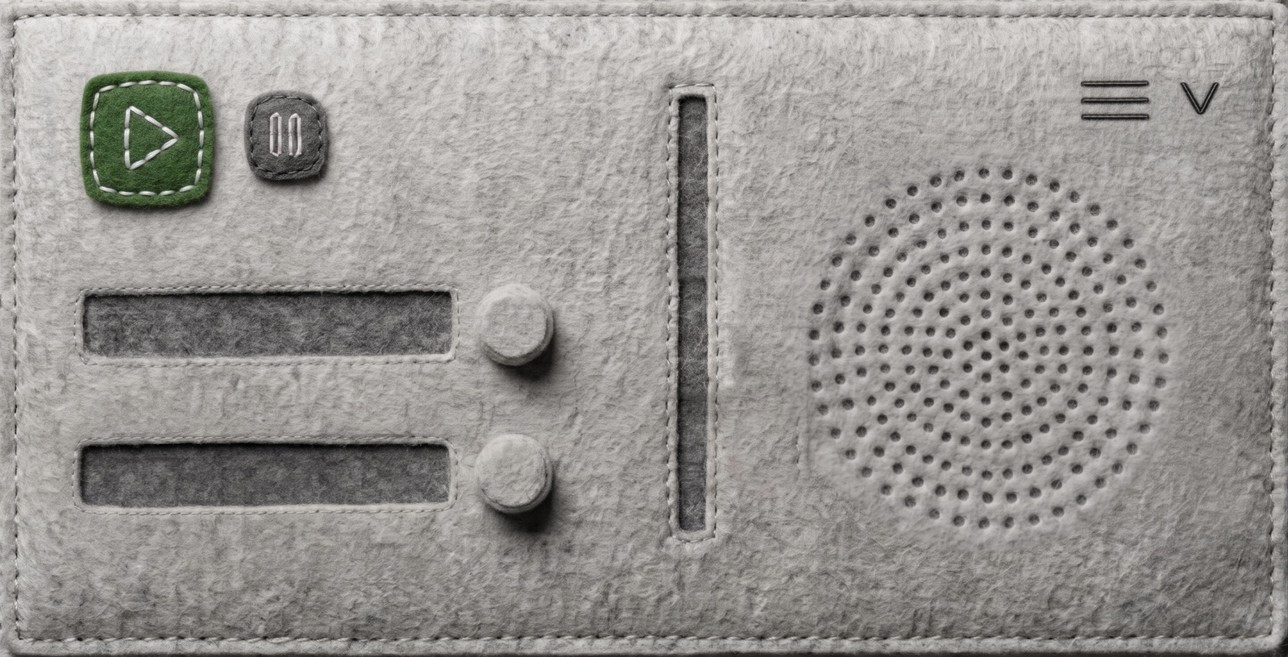
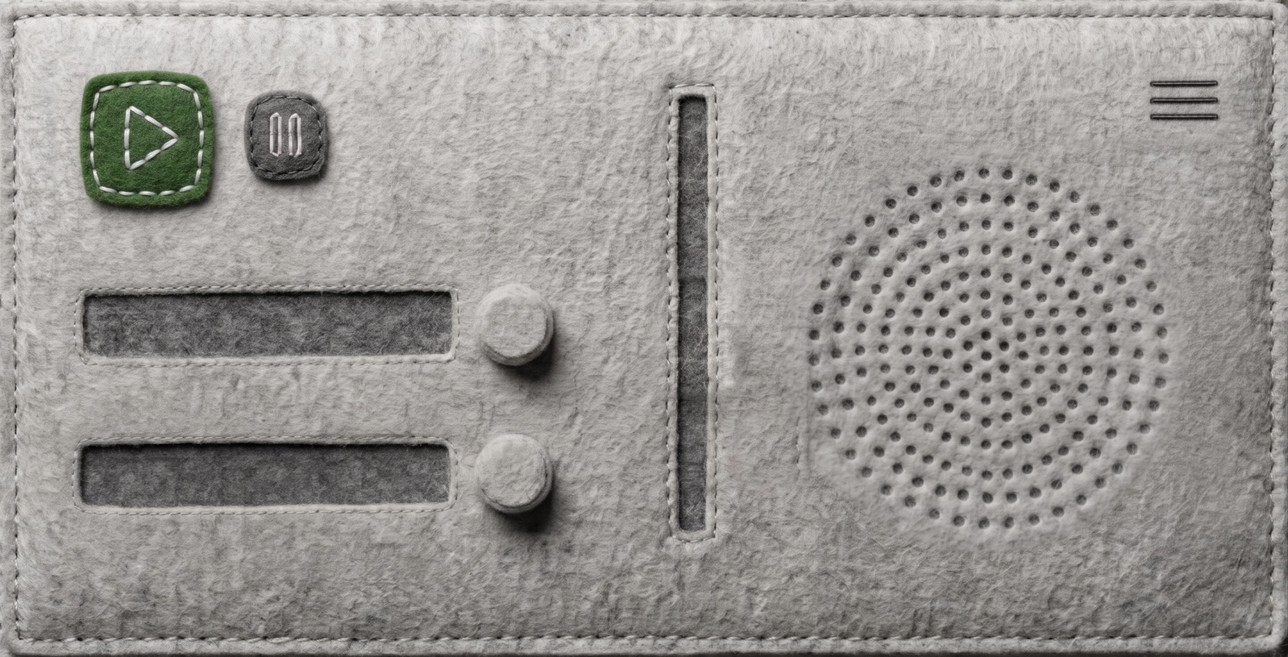
Audio Player: no down arrow (the menu lines take its place), 'Close Audio Player' underneath, Play and Pause names level, Sounds and Music named under their windows, no Volume name, a darker layer behind
Claude-Session: https://claude.ai/code/session_01NDsvQ4w6b4M39K7iEhCswz

Changed region(s): [[0.8385, 0.1218, 0.9627, 0.2131]]

diff --git a/src/components/TapePlayer.js b/src/components/TapePlayer.js
@@ -5,7 +5,7 @@
 //   Sounds (top window) and Music (bottom window): tap a knob to click through the choices; the choice shows
 //     in the window in white, and the line on the knob turns a notch each click (the knob itself stays still)
 //   Volume: the felt slider (drag its knob up and down, or tap the slot)
-//   the three lines at the top: open the Music and Sounds page; the down arrow: close the player
+//   the three lines at the top: open the Music and Sounds page; 'Close Audio Player' underneath closes it
 // (recording your voice is on the reading bar's red button)
 import React, { useEffect, useRef, useState } from 'react';
 import { Animated, Image, PanResponder, Pressable, StyleSheet, Text, View, useWindowDimensions } from 'react-native';
@@ -75,24 +75,24 @@ export default function TapePlayer({ onMenu }) {
   return (
     // the half-dark layer takes every touch, so nothing underneath can be used until the player is closed
     <Animated.View style={[StyleSheet.absoluteFill, styles.scrim, { opacity: fade }]} onStartShouldSetResponder={() => true} accessibilityViewIsModal>
+    <View style={{ alignItems: 'flex-start' }}>
     <View style={[styles.body, { width: PW, height: PH, borderRadius: R * f }]} accessibilityLabel={t('Audio Player')}>
       <View style={[styles.inner, { width: PW, height: PH, borderRadius: R * f }]}>
         <Image source={BODY} style={{ width: PW, height: PH }} resizeMode="stretch" />
         {/* the three lines: the Music and Sounds page; the down arrow: close the player */}
-        <Pressable onPress={onMenu} hitSlop={4} style={at(2120, 120, 210, 160)} accessibilityRole="button" accessibilityLabel={t('Music and Sounds')} />
-        <Pressable onPress={() => setAmbientPlayer(false)} hitSlop={4} style={at(2335, 110, 170, 180)} accessibilityRole="button" accessibilityLabel={t('Close the player')} />
+        <Pressable onPress={onMenu} hitSlop={4} style={at(2250, 110, 240, 180)} accessibilityRole="button" accessibilityLabel={t('Music and Sounds')} />
         {/* Play and Pause, with their names underneath */}
         <Pressable onPress={playAmbient} style={at(161, 142, 264, 270)} accessibilityRole="button" accessibilityLabel={t('Play')} />
         <Pressable onPress={pauseAmbient} style={at(490, 187, 161, 161)} accessibilityRole="button" accessibilityLabel={t('Pause')} />
-        {[[t('Play'), 293, 432], [t('Pause'), 570, 370]].map(([l, cx, top]) => (
+        {[[t('Play'), 293, 432], [t('Pause'), 570, 432]].map(([l, cx, top]) => (
           <Text key={cx} numberOfLines={1} style={[styles.label, label, { position: 'absolute', left: (cx - 150) * f, width: 300 * f, top: top * f, textAlign: 'center' }]}>{l}</Text>
         ))}
         {/* the two windows, named above them, with the choice in white */}
-        <Text style={[styles.label, label, { position: 'absolute', left: 178 * f, top: 518 * f }]}>{t('Sounds')}</Text>
+        <Text style={[styles.label, label, { position: 'absolute', left: 186 * f, top: 726 * f }]}>{t('Sounds')}</Text>
         <View pointerEvents="none" style={[at(186, 593, 704, 110), styles.window]}>
           <Text numberOfLines={1} adjustsFontSizeToFit minimumFontScale={0.7} style={[styles.choice, { fontSize: 66 * f }, !s.sound && { opacity: 0.6 }]}>{name(s.sound)}</Text>
         </View>
-        <Text style={[styles.label, label, { position: 'absolute', left: 172 * f, top: 820 * f }]}>{t('Music')}</Text>
+        <Text style={[styles.label, label, { position: 'absolute', left: 180 * f, top: 1030 * f }]}>{t('Music')}</Text>
         <View pointerEvents="none" style={[at(180, 900, 704, 106), styles.window]}>
           <Text numberOfLines={1} adjustsFontSizeToFit minimumFontScale={0.7} style={[styles.choice, { fontSize: 66 * f }, !s.music && { opacity: 0.6 }]}>{name(s.music)}</Text>
         </View>
@@ -108,8 +108,12 @@ export default function TapePlayer({ onMenu }) {
           onAccessibilityAction={(e) => setAmbientVolume(vol + (e.nativeEvent.actionName === 'increment' ? 0.1 : -0.1))}>
           <Image pointerEvents="none" source={THUMB} style={at(SX - SLOT.x - THUMB_D / 2, thumbY - SLOT.y - THUMB_D / 2, THUMB_D, THUMB_D)} />
         </View>
-        <Text numberOfLines={1} style={[styles.label, label, { position: 'absolute', left: (SX - 200) * f, width: 400 * f, top: 1112 * f, textAlign: 'center' }]}>{t('Volume')}</Text>
       </View>
+    </View>
+    {/* the way out, under the player on the left */}
+    <Pressable onPress={() => setAmbientPlayer(false)} hitSlop={12} style={{ marginTop: 14 }} accessibilityRole="button">
+      <Text style={styles.close}>{t('Close Audio Player')}</Text>
+    </Pressable>
     </View>
     </Animated.View>
   );
@@ -117,12 +121,13 @@ export default function TapePlayer({ onMenu }) {
 
 const styles = StyleSheet.create({
   // a soft drop shadow all round, a little deeper below
-  scrim: { zIndex: 170, backgroundColor: 'rgba(0,0,0,0.5)', alignItems: 'center', justifyContent: 'center' },
+  scrim: { zIndex: 170, backgroundColor: 'rgba(0,0,0,0.65)', alignItems: 'center', justifyContent: 'center' },
   body: {
     shadowColor: '#000', shadowOffset: { width: 0, height: 8 }, shadowOpacity: 0.55, shadowRadius: 14, elevation: 14 },
   inner: { overflow: 'hidden' },
   label: { fontFamily: fonts.ui, fontWeight: '600', color: '#4a4a4a' },
   mark: { position: 'absolute', borderRadius: 3, backgroundColor: '#2a2a2d' },
+  close: { fontFamily: fonts.ui, fontSize: 16, fontWeight: '600', color: '#ffffff' },
   window: { justifyContent: 'center', paddingHorizontal: 4 },
   choice: { fontFamily: fonts.ui, fontWeight: '600', color: '#ffffff' },
 });

diff --git a/src/i18n.js b/src/i18n.js
@@ -283,6 +283,7 @@ const T = {
   'Listen only': { de: 'Nur zuhören', fr: 'Écouter seulement', es: 'Solo escuchar', ja: 'きくだけ' },
   'Listen Only': { de: 'Nur zuhören', fr: 'Écouter seulement', es: 'Solo escuchar', ja: 'きくだけ' },
   'Profiles': { de: 'Profile', fr: 'Profils', es: 'Perfiles', ja: 'プロフィール' },
+  'Close Audio Player': { de: 'Audio-Player schließen', fr: 'Fermer le lecteur audio', es: 'Cerrar el reproductor de audio', ja: 'オーディオプレーヤーをとじる' },
   'Close the player': { de: 'Spieler schließen', fr: 'Fermer le lecteur', es: 'Cerrar el reproductor', ja: 'プレーヤーをとじる' },
   'Previous': { de: 'Zurück', fr: 'Précédent', es: 'Anterior', ja: 'まえ' },
   'Next': { de: 'Weiter', fr: 'Suivant', es: 'Siguiente', ja: 'つぎ' },
